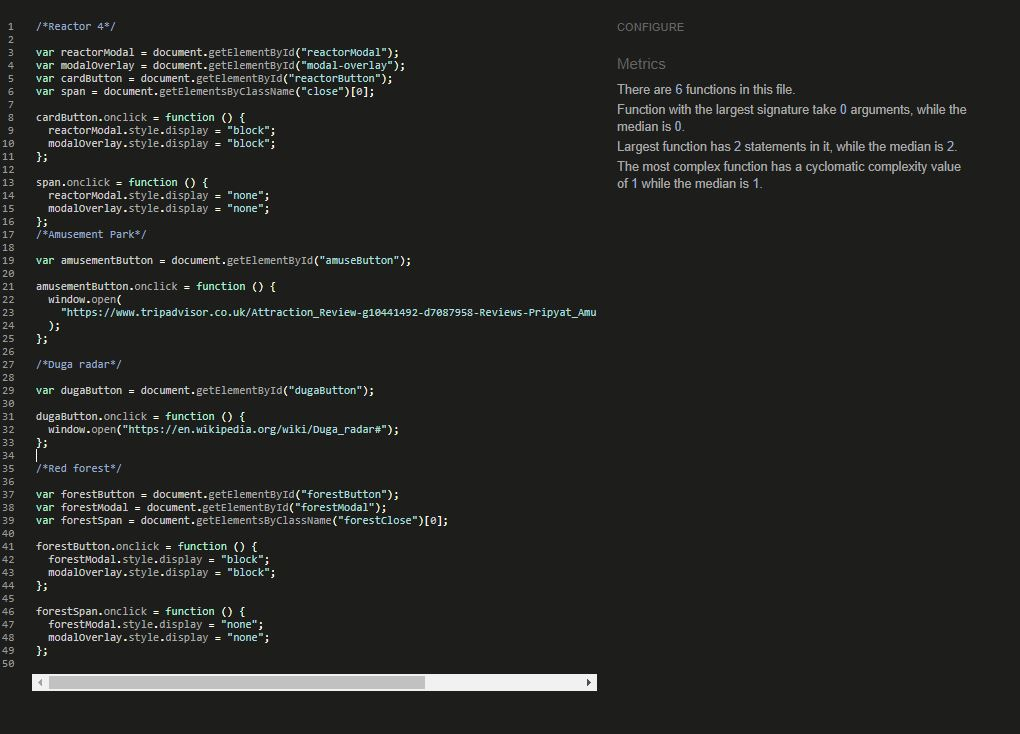
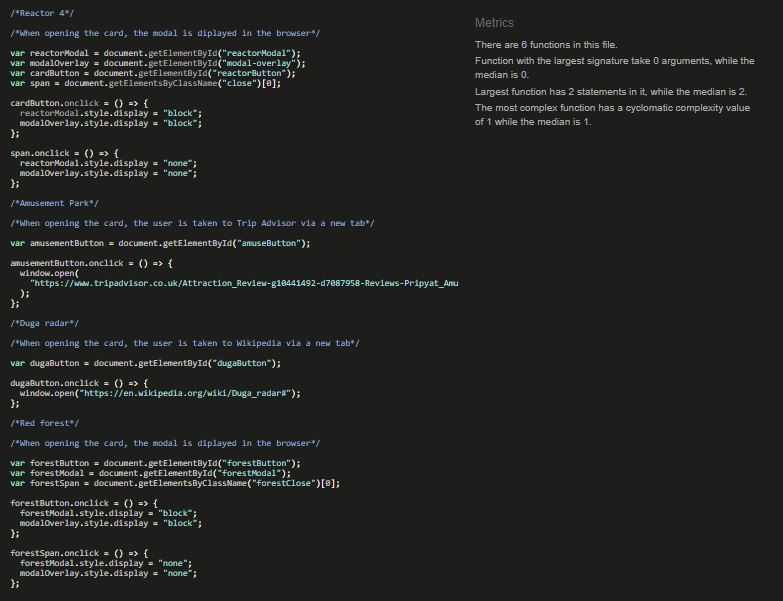
altered modal.js to use arrow functions

Changed region(s): [[0.0, 0.0, 0.5824, 0.9584], [0.5824, 0.03, 0.9502, 0.2696]]

diff --git a/js/modals.js b/js/modals.js
@@ -7,12 +7,12 @@ var modalOverlay = document.getElementById("modal-overlay");
 var cardButton = document.getElementById("reactorButton");
 var span = document.getElementsByClassName("close")[0];
 
-cardButton.onclick = function () {
+cardButton.onclick = () => {
   reactorModal.style.display = "block";
   modalOverlay.style.display = "block";
 };
 
-span.onclick = function () {
+span.onclick = () => {
   reactorModal.style.display = "none";
   modalOverlay.style.display = "none";
 };
@@ -23,7 +23,7 @@ span.onclick = function () {
 
 var amusementButton = document.getElementById("amuseButton");
 
-amusementButton.onclick = function () {
+amusementButton.onclick = () => {
   window.open(
     "https://www.tripadvisor.co.uk/Attraction_Review-g10441492-d7087958-Reviews-Pripyat_Amusement_Park-Pripyat_Kiev_Oblast.html"
   );
@@ -35,7 +35,7 @@ amusementButton.onclick = function () {
 
 var dugaButton = document.getElementById("dugaButton");
 
-dugaButton.onclick = function () {
+dugaButton.onclick = () => {
   window.open("https://en.wikipedia.org/wiki/Duga_radar#");
 };
 
@@ -47,12 +47,12 @@ var forestButton = document.getElementById("forestButton");
 var forestModal = document.getElementById("forestModal");
 var forestSpan = document.getElementsByClassName("forestClose")[0];
 
-forestButton.onclick = function () {
+forestButton.onclick = () => {
   forestModal.style.display = "block";
   modalOverlay.style.display = "block";
 };
 
-forestSpan.onclick = function () {
+forestSpan.onclick = () => {
   forestModal.style.display = "none";
   modalOverlay.style.display = "none";
 };
